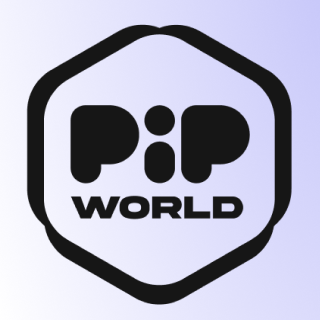
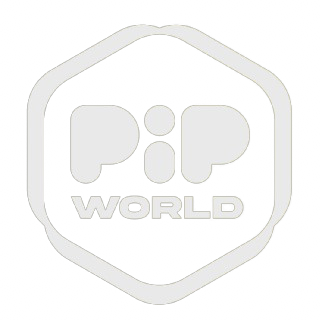
new changes

diff --git a/app.py b/app.py
@@ -4,12 +4,10 @@ import pandas as pd
 import numpy as np
 import matplotlib.pyplot as plt
 
-# Sample data for visualizations (Replace with your actual data)
 rounds = ["Private 1a", "Private 1b", "Private 2", "Private Current", "Public Launchpads", "KOLs"]
 prices = [0.001, 0.001, 0.0015, 0.0015, 0.0035, 0.0035]
 raised = [300000, 1100000, 65000, 685500, 280000, 1100000]
 
-# Creating charts (You might want to replace this with your actual data and charts)
 def create_fundraising_chart():
     fig, ax1 = plt.subplots()
     color = 'tab:red'

diff --git a/tokenomics.py b/tokenomics.py
@@ -62,7 +62,7 @@ if authenticate_user():
     # return False
 
     st.set_page_config(layout="wide", page_title="$PiP Tokenomics", page_icon=":coin:")
-    st.sidebar.image("pip2.png", use_column_width=True)
+    st.sidebar.image("pip.png", use_column_width=True)
     st.sidebar.markdown("<hr>", unsafe_allow_html=True)
     st.sidebar.title("Navigation")
     app_mode = st.sidebar.selectbox("Select tokenomics section",
